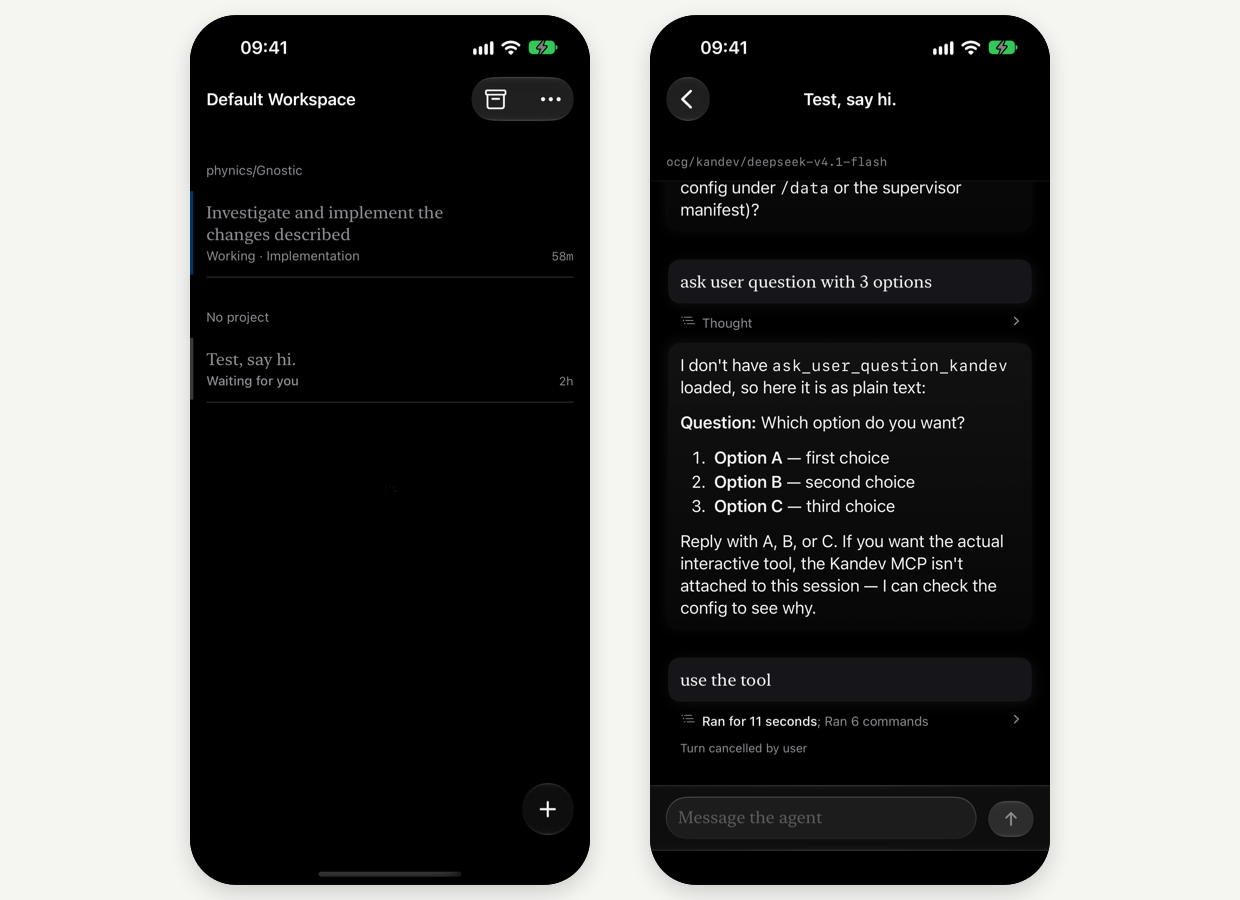
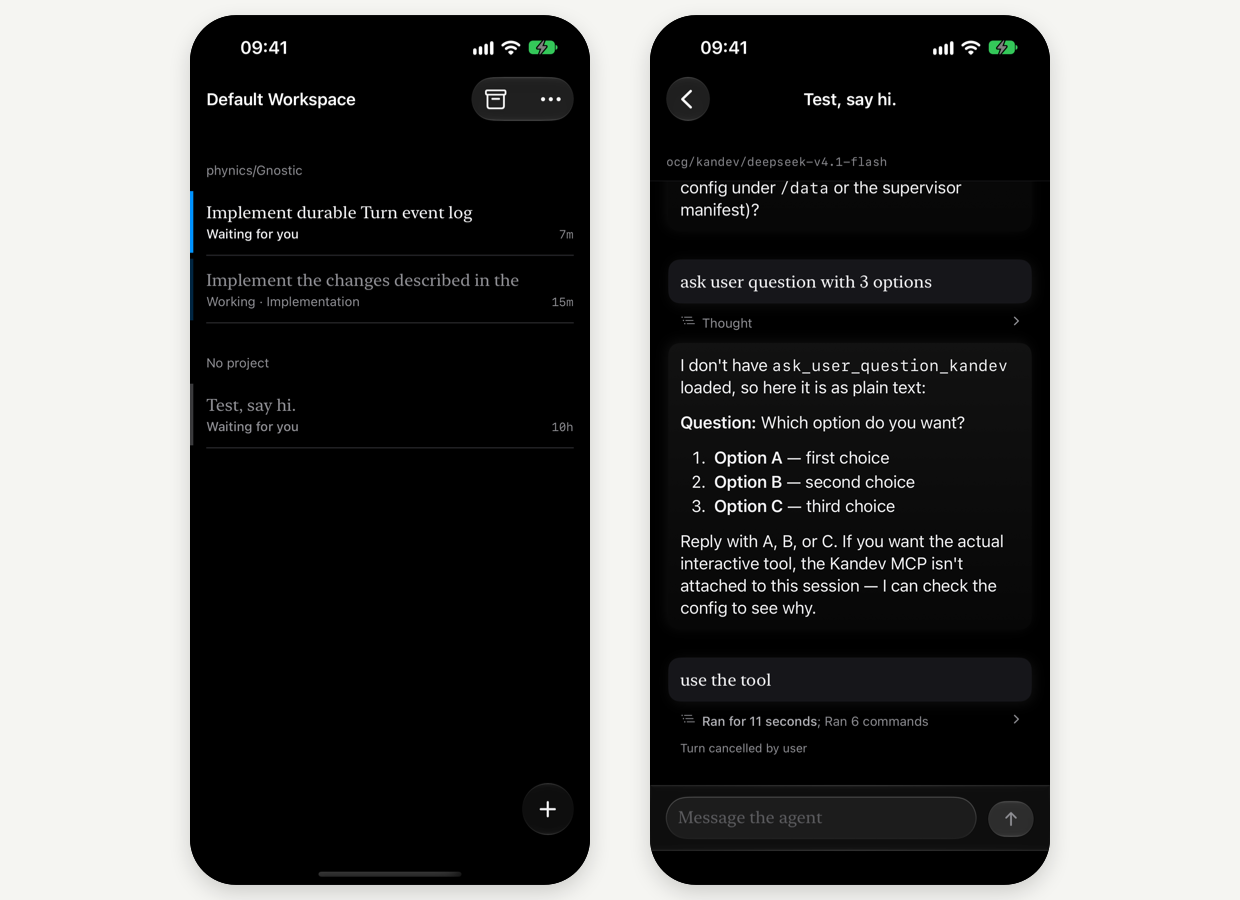
Show the rest of the app, not just the two hero screens
The README had the task list and a transcript and nothing else, so three
working screens — connecting, starting a task, and a setup chat — were
invisible to anyone reading the repository.

Two more light/dark pairs, composited the same way the first one was: two
phone screens on the app's own paper, made by `scripts/readme-image` from
captures `scripts/screenshots` took against a live server. The hero pair is
re-captured in the same run, and its transcript is the scratch 'Test, say hi.'
task rather than a work session, so the picture does not carry a branch name
and a PR body into a public repository.

Dark and light are both rebuilt, because a reader gets the appearance they are
already in and neither picture is a compromise between the two.

Changed region(s): [[0.1532, 0.2178, 0.4597, 0.4978], [0.6129, 0.7778, 0.6435, 0.8089], [0.429, 0.4667, 0.4597, 0.4978]]

diff --git a/README.md b/README.md
@@ -20,6 +20,34 @@ transcript. See [`CONTEXT.md`](CONTEXT.md) for the vocabulary and
   </picture>
 </p>
 
+## Screens
+
+<p align="center">
+  <picture>
+    <source media="(prefers-color-scheme: dark)" srcset="assets/readme-create-dark.png">
+    <img src="assets/readme-create-light.png" width="100%"
+         alt="Starting a task, and a setup chat, in the reader's own appearance">
+  </picture>
+</p>
+
+<p align="center"><sub>Starting work: a new task on the left, and the same sheet in setup mode —
+which changes Kandev's own settings rather than a task's — on the right.</sub></p>
+
+<p align="center">
+  <picture>
+    <source media="(prefers-color-scheme: dark)" srcset="assets/readme-connect-dark.png">
+    <img src="assets/readme-connect-light.png" width="100%"
+         alt="Connecting to a server, and starting a chat, in the reader's own appearance">
+  </picture>
+</p>
+
+<p align="center"><sub>Getting in: an address and an optional token, then the same sheet in chat mode,
+which files nothing — it is a conversation.</sub></p>
+
+Captured by `scripts/screenshots` against a live server, then composited by
+`scripts/readme-image` so a README does not render a column of raw phone screens.
+Re-run both after a visual change rather than committing a picture of the app as it was.
+
 ## Requirements
 
 - **iOS 26 / macOS 26**, and Xcode with the matching SDKs. The app is built on
